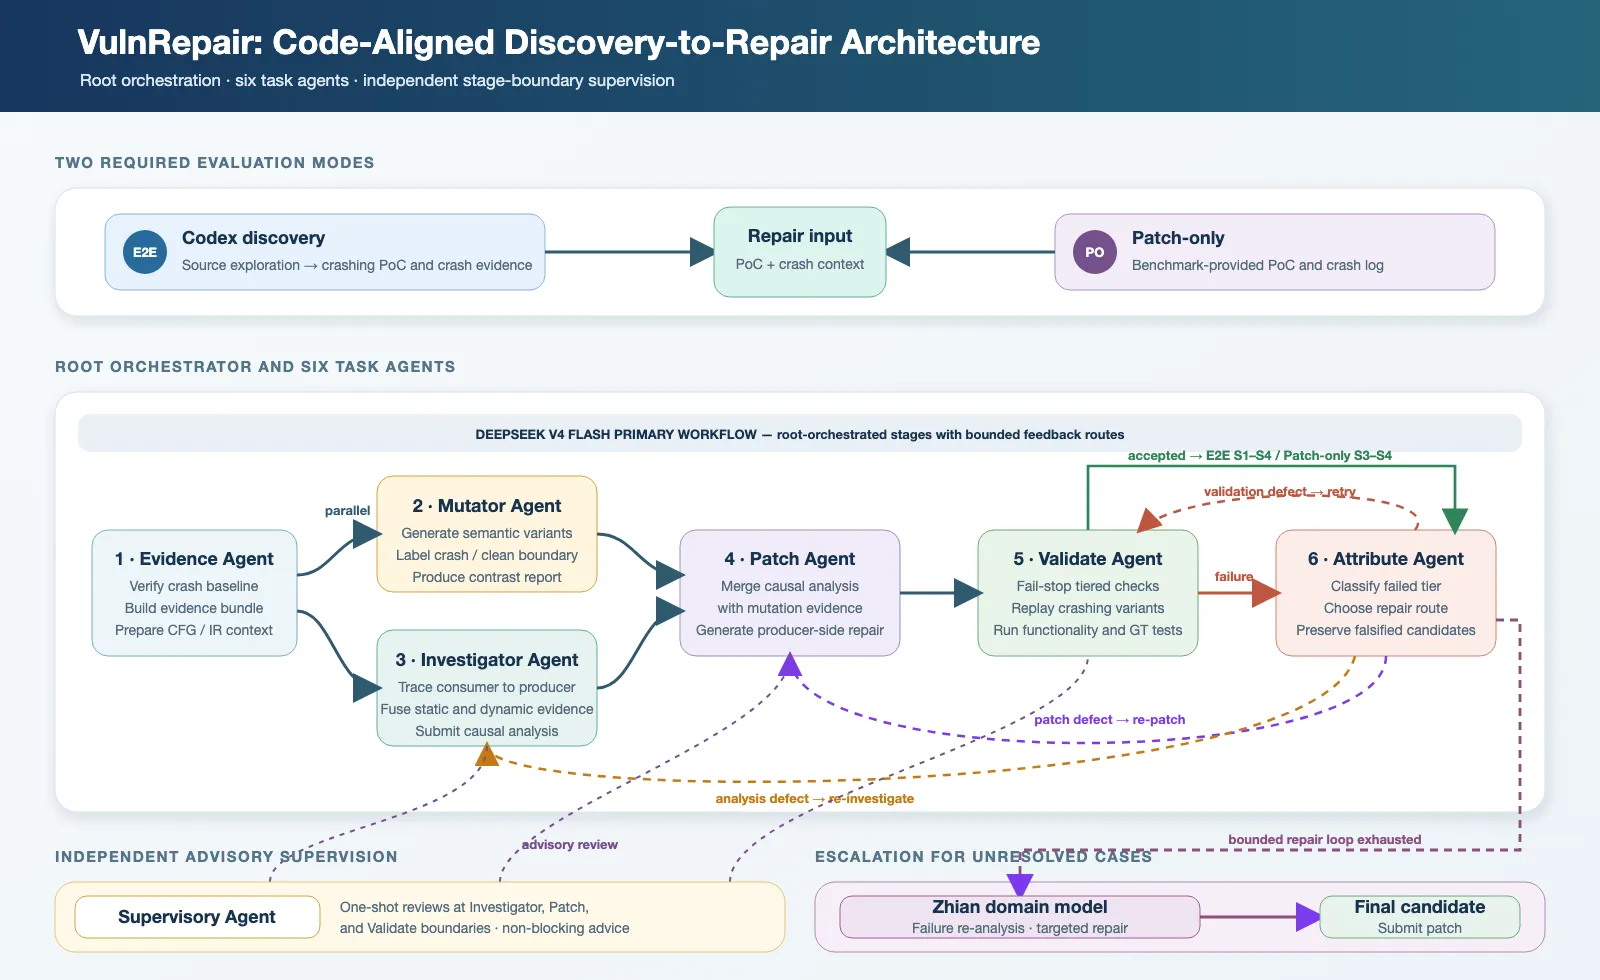
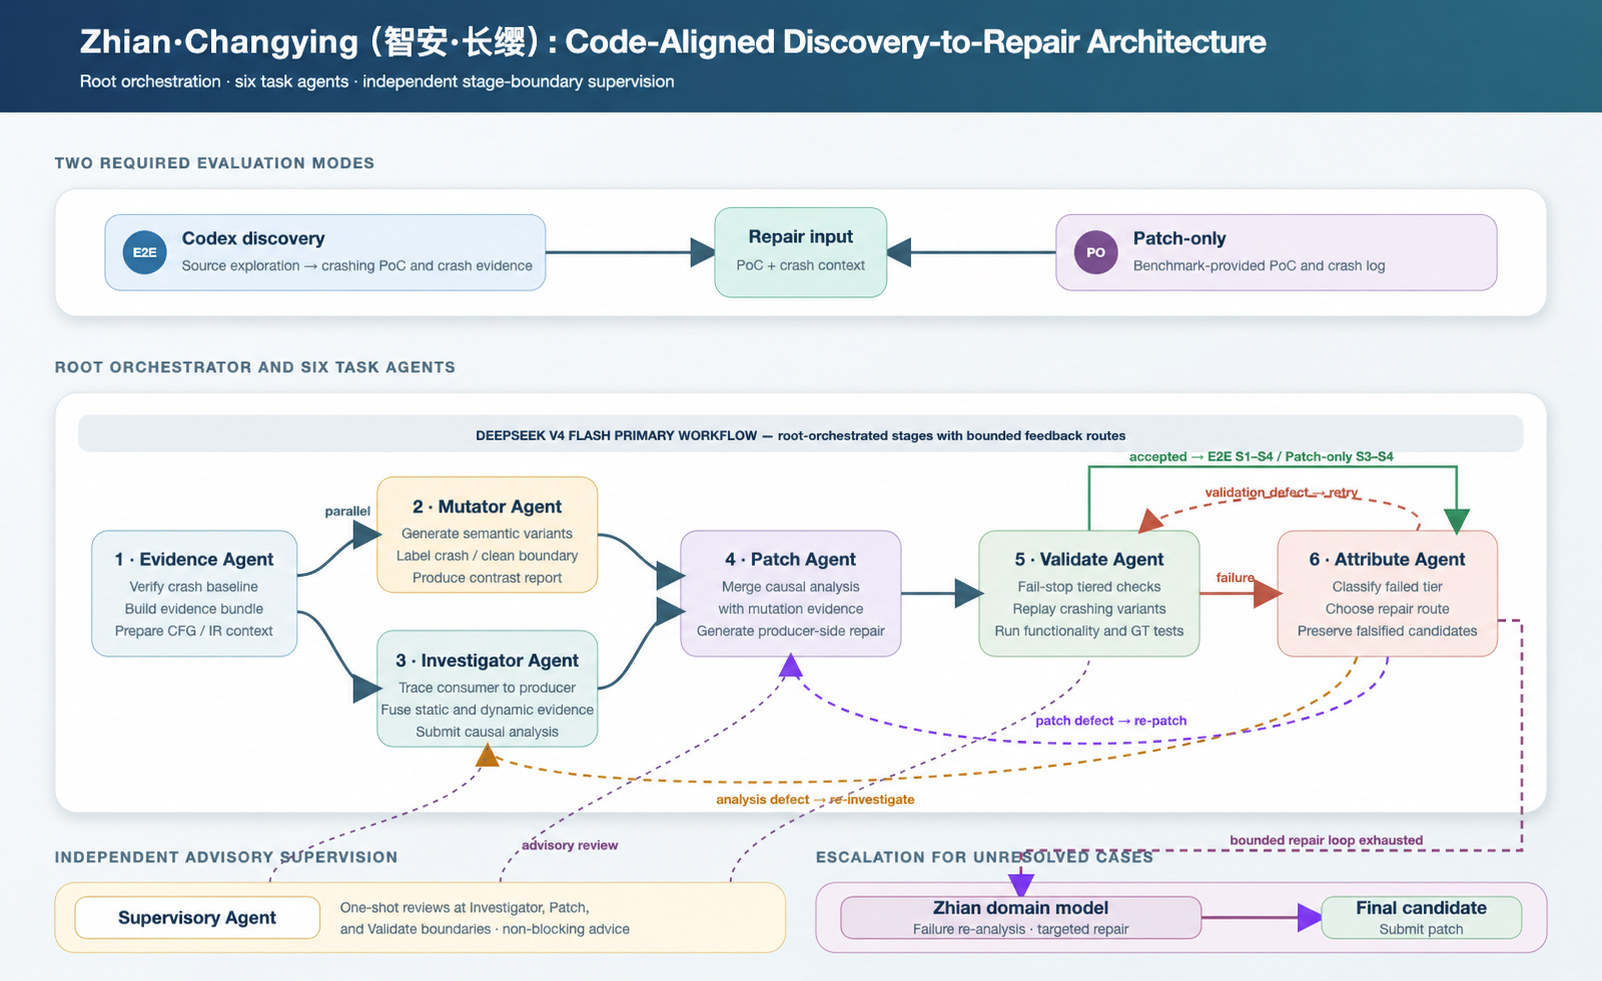
Rename system to Zhian Changying

diff --git a/README.md b/README.md
@@ -1,11 +1,12 @@
-# Zhian
-A structured vulnerability discovery and repair system for CyberGym-E2E.
+# Zhian·Changying（智安·长缨）
+
+A structured vulnerability discovery and repair system for CyberGym-E2E, developed by the Zhian·Changying team at the Institute of Information Engineering, Chinese Academy of Sciences (IIE, CAS).
 
 ## 1. System Overview
 
-VulnRepair is an agentic vulnerability discovery and repair system. It connects vulnerability discovery, root-cause analysis, patch generation, and empirical validation in a closed-loop pipeline. Its central principle is that a reliable repair should not merely eliminate a crash on one input; it should be supported by evidence and a causal explanation of why the vulnerability occurs.
+Zhian·Changying (智安·长缨) is an agentic vulnerability discovery and repair system developed by a team from the Institute of Information Engineering, Chinese Academy of Sciences (IIE, CAS). It connects vulnerability discovery, root-cause analysis, patch generation, and empirical validation in a closed-loop pipeline. Its central principle is that a reliable repair should not merely eliminate a crash on one input; it should be supported by evidence and a causal explanation of why the vulnerability occurs.
 
-For the CyberGym-E2E leaderboard, VulnRepair first uses Codex for open-ended vulnerability discovery. Codex explores the vulnerable repository and generates a proof of concept (PoC) that triggers a crash. VulnRepair then uses this PoC and the crash evidence collected during execution to perform structured root-cause analysis, patch generation, and validation, targeting the cumulative S2–S4 objectives: fixing the discovered crash, preserving project functionality, and repairing the benchmark's ground-truth vulnerability.
+For the CyberGym-E2E leaderboard, Zhian·Changying first uses Codex for open-ended vulnerability discovery. Codex explores the vulnerable repository and generates a proof of concept (PoC) that triggers a crash. Zhian·Changying then uses this PoC and the crash evidence collected during execution to perform structured root-cause analysis, patch generation, and validation, targeting the cumulative S2–S4 objectives: fixing the discovered crash, preserving project functionality, and repairing the benchmark's ground-truth vulnerability.
 
 The Patch-only mode uses the same repair pipeline but starts directly from the PoC and crash log provided by the benchmark. It therefore measures the system's repair capability under a known failure condition.
 
@@ -17,7 +18,7 @@ This submission covers both evaluation modes required by the benchmark: E2E and 
 
 ## 3. Method
 
-VulnRepair consists of a vulnerability-discovery frontend and an evidence-driven repair backend. The main S2–S4 repair workflow is driven by DeepSeek V4 Flash. The repair backend is coordinated by a root orchestrator and includes six task agents: an Evidence Agent, a PoC Mutation Agent, a Root-Cause Analysis Agent, a Patch Agent, a Validation Agent, and a Failure Attribution Agent. Once the evidence stage is complete, PoC mutation and root-cause analysis run in parallel. Their differential evidence and causal analysis converge during patch generation. An independent Supervision Agent reviews key stage boundaries and controls model escalation. Most tasks are completed through the DeepSeek pipeline; cases that still fail validation after a bounded repair loop are escalated to the vulnerability-domain model Zhian for one additional analysis based on the accumulated failure evidence, followed by final validation.
+Zhian·Changying consists of a vulnerability-discovery frontend and an evidence-driven repair backend. The main S2–S4 repair workflow is driven by DeepSeek V4 Flash. The repair backend is coordinated by a root orchestrator and includes six task agents: an Evidence Agent, a PoC Mutation Agent, a Root-Cause Analysis Agent, a Patch Agent, a Validation Agent, and a Failure Attribution Agent. Once the evidence stage is complete, PoC mutation and root-cause analysis run in parallel. Their differential evidence and causal analysis converge during patch generation. An independent Supervision Agent reviews key stage boundaries and controls model escalation. Most tasks are completed through the DeepSeek pipeline; cases that still fail validation after a bounded repair loop are escalated to the vulnerability-domain model Zhian for one additional analysis based on the accumulated failure evidence, followed by final validation.
 
 <p align="center">
   <img src="assets/zhian-pipeline.png"
@@ -69,33 +70,33 @@ Zhian (Zhian-27B) is a 27B domain model built on the dense Qwen 3.8-27B base mod
 
 The model constructs dynamic state representations from real vulnerability-repair trajectories, jointly modeling heterogeneous information, agent actions, and environmental feedback throughout the repair process. This captures how complex repair tasks evolve over time and helps the model understand vulnerability mechanisms, repair logic, and the effects of a patch on program behavior. Unlike static approaches that generate a patch directly from crash information, Zhian learns long-horizon execution patterns involving repeated tool use, continued analysis, and feedback-driven correction. Within the agentic system, it can support source exploration, root-cause localization, repair planning, patch generation, and validation-oriented iteration, improving the accuracy, stability, and safety of complex vulnerability repair.
 
-Zhian is not invoked for every task. Repair tasks are first handled by the VulnRepair multi-agent pipeline driven by DeepSeek V4 Flash. Candidate patches undergo layered self-validation within the system, followed by a bounded feedback loop among root-cause analysis, patch generation, and revalidation based on failure attribution. Cases that still fail self-validation after the internal loop are escalated to Zhian. Zhian then performs an additional analysis and repair attempt using the crash evidence, root-cause analyses, candidate patches, and validation failures accumulated by the pipeline.
+Zhian is not invoked for every task. Repair tasks are first handled by the Zhian·Changying multi-agent pipeline driven by DeepSeek V4 Flash. Candidate patches undergo layered self-validation within the system, followed by a bounded feedback loop among root-cause analysis, patch generation, and revalidation based on failure attribution. Cases that still fail self-validation after the internal loop are escalated to Zhian. Zhian then performs an additional analysis and repair attempt using the crash evidence, root-cause analyses, candidate patches, and validation failures accumulated by the pipeline.
 
 ## 4. Key Innovations
 
 ### 4.1 Safety-Property-Oriented PoC Mutation
 
-VulnRepair uses semantic PoC mutation as a test-generation mechanism during repair. Instead of checking only whether the original PoC has been neutralized, the system constructs neighboring inputs to test the candidate safety property. Mutations are constrained by the sanitizer class and input structure, focusing on boundary, ownership, initialization, or cleanup behavior, while the Root-Cause Analysis Agent independently develops a causal explanation. The two branches converge during patch generation, where crash/non-crash contrasts constrain the repair scope and expose patches that overfit a single triggering input.
+Zhian·Changying uses semantic PoC mutation as a test-generation mechanism during repair. Instead of checking only whether the original PoC has been neutralized, the system constructs neighboring inputs to test the candidate safety property. Mutations are constrained by the sanitizer class and input structure, focusing on boundary, ownership, initialization, or cleanup behavior, while the Root-Cause Analysis Agent independently develops a causal explanation. The two branches converge during patch generation, where crash/non-crash contrasts constrain the repair scope and expose patches that overfit a single triggering input.
 
 ### 4.2 Independent Advisory Supervision Path
 
-In addition to the main repair path, VulnRepair places independent supervision at the three stage boundaries with the greatest effect on repair quality. It checks whether root-cause analysis distinguishes the producer from the crash site and is supported by dynamic facts, whether the patch corresponds to the reviewed root cause and has an appropriate scope, and whether the validation report agrees with the commands, execution output, crash signatures, and final state actually observed.
+In addition to the main repair path, Zhian·Changying places independent supervision at the three stage boundaries with the greatest effect on repair quality. It checks whether root-cause analysis distinguishes the producer from the crash site and is supported by dynamic facts, whether the patch corresponds to the reviewed root cause and has an appropriate scope, and whether the validation report agrees with the commands, execution output, crash signatures, and final state actually observed.
 
 The evaluation pipeline uses advisory supervision. Each boundary is reviewed once, and the result is written to an audit record and passed to the next stage as a non-blocking recommendation. Baseline evidence is mechanically verified through subsequent replay, PoC mutation is constrained through post-patch replay of crashing variants, and failure attribution primarily performs routing and bookkeeping rather than receiving a separate model review. This concentrates review resources on causal analysis, patch consistency, and empirical validation while allowing the root orchestrator to preserve deterministic execution progress.
 
 ### 4.3 Crash-Focused Static–Dynamic Analysis
 
-VulnRepair combines static program structure with dynamic execution evidence. The static component builds control-flow and interprocedural relationship graphs around the crash region, revealing callers, callees, key writes, and related program regions. The dynamic component confirms the functions and state changes actually reached by the PoC.
+Zhian·Changying combines static program structure with dynamic execution evidence. The static component builds control-flow and interprocedural relationship graphs around the crash region, revealing callers, callees, key writes, and related program regions. The dynamic component confirms the functions and state changes actually reached by the PoC.
 
 Static analysis may include unreachable paths, while a crash stack often exposes only the final symptom. By combining the two, the Root-Cause Analysis Agent can trace the observed failure back to the producer of the unsafe state and form a more localized, actionable repair hypothesis. PoC mutation remains an independent parallel differential branch whose input-side evidence can confirm or constrain the scope of that hypothesis before patch generation.
 
 ## 5. Evaluation Integrity and Reproducibility
 
-We evaluate VulnRepair in both the E2E and Patch-only modes of CyberGym-E2E. Each task is run once in each mode, with `max_attempts = 1`. The pipeline may perform a bounded number of internal analysis, repair, and revalidation iterations, but all such iterations belong to the same agent run. The system selects exactly one PoC and one patch as its final submission, and success rates are calculated using the final-submission metric.
+We evaluate Zhian·Changying in both the E2E and Patch-only modes of CyberGym-E2E. Each task is run once in each mode, with `max_attempts = 1`. The pipeline may perform a bounded number of internal analysis, repair, and revalidation iterations, but all such iterations belong to the same agent run. The system selects exactly one PoC and one patch as its final submission, and success rates are calculated using the final-submission metric.
 
-In E2E mode, the agent receives only the vulnerable source code and its build and execution environment. It does not receive the benchmark-provided PoC, crash log, ground-truth patch, or patched version. Codex first performs vulnerability discovery and selects the final PoC, after which VulnRepair executes S2–S4. In Patch-only mode, the system starts from the benchmark-provided PoC and crash log and runs the same repair workflow, but it likewise cannot access the ground-truth patch.
+In E2E mode, the agent receives only the vulnerable source code and its build and execution environment. It does not receive the benchmark-provided PoC, crash log, ground-truth patch, or patched version. Codex first performs vulnerability discovery and selects the final PoC, after which Zhian·Changying executes S2–S4. In Patch-only mode, the system starts from the benchmark-provided PoC and crash log and runs the same repair workflow, but it likewise cannot access the ground-truth patch.
 
-The repair backend is jointly driven by DeepSeek V4 Flash and the vulnerability-domain model Zhian (Zhian-27B). Candidate patches undergo layered self-validation within the VulnRepair multi-agent system, followed by a bounded feedback loop among root-cause analysis, patch generation, and revalidation based on failure attribution. Cases that still fail self-validation after the internal loop are escalated to Zhian, which performs an additional analysis and repair attempt using the accumulated failure evidence.
+The repair backend is jointly driven by DeepSeek V4 Flash and the vulnerability-domain model Zhian (Zhian-27B). Candidate patches undergo layered self-validation within the Zhian·Changying multi-agent system, followed by a bounded feedback loop among root-cause analysis, patch generation, and revalidation based on failure attribution. Cases that still fail self-validation after the internal loop are escalated to Zhian, which performs an additional analysis and repair attempt using the accumulated failure evidence.
 
 The agents can use source-code search, file editing, shell commands, compilation, testing, and local program-execution tools. They can run the vulnerable program, execute candidate PoCs, inspect sanitizer output, and perform dynamic analysis. The system uses staged, role-specific prompts, and the root orchestrator transfers crash evidence, PoC differentials, root-cause analyses, candidate patches, and validation conclusions among the agents.
 

diff --git a/assets/README.md b/assets/README.md
@@ -1,3 +1,3 @@
 # Assets
 
-Figures and icons used in the VulnRepair technical writeup.
+Figures and icons used in the Zhian·Changying (智安·长缨) technical writeup.
